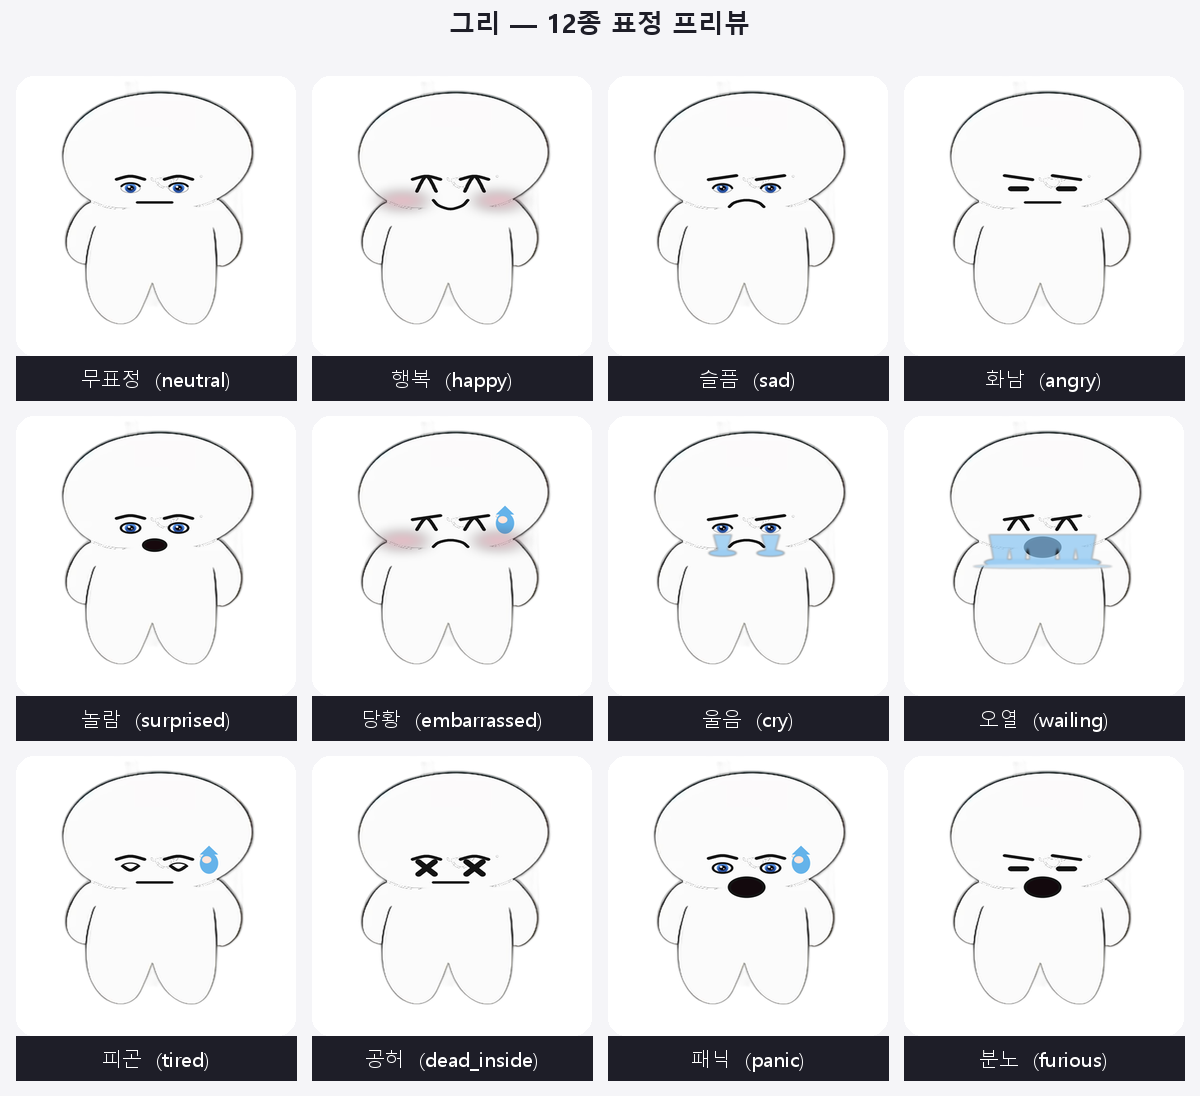
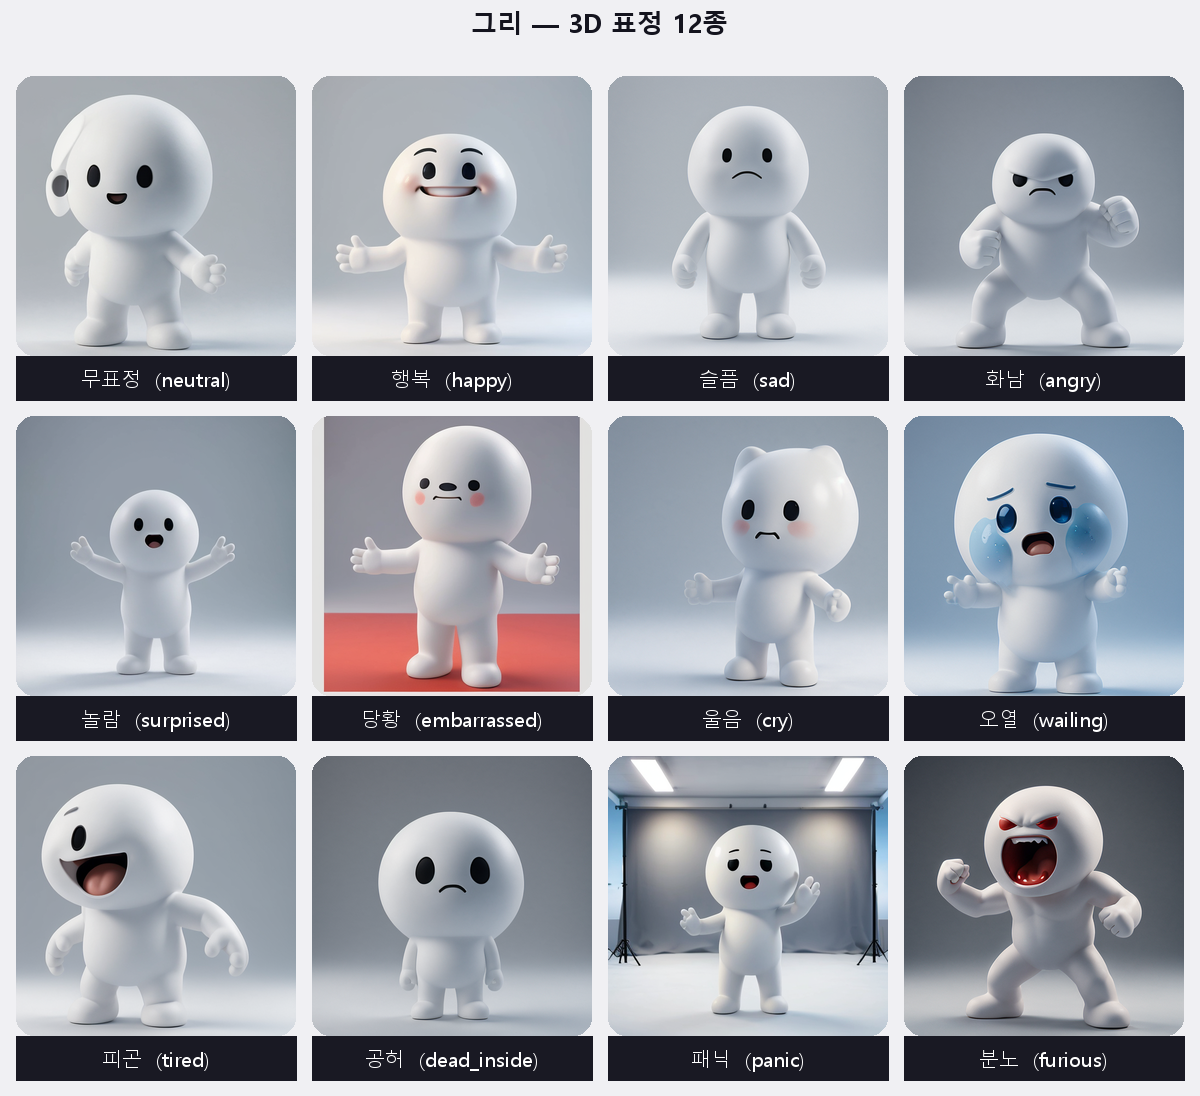
feat: 2D 표정 → 3D 그리 표정 12종으로 교체
- assets/emotions_preview.png: ComfyUI + jeonggwichan_v6 LoRA로 생성한 3D 표정 그리드
- dreamshaper_8 + LoRA strength 0.85, 512×512, dpmpp_2m karras 25step
- 무표정/행복/슬픔/화남/놀람/당황/울음/오열/피곤/공허/패닉/분노 12종

diff --git a/README.md b/README.md
@@ -7,11 +7,11 @@
 
 ---
 
-## 그리 — 12종 표정 프리뷰
+## 그리 — 3D 표정 12종
 
 <div align="center">
 
-![그리 12종 표정](assets/emotions_preview.png)
+![그리 3D 표정 12종](assets/emotions_preview.png)
 
 </div>
 
@@ -21,7 +21,7 @@
 | 2행 | 놀람 · 당황 · 울음 · 오열 |
 | 3행 | 피곤 · 공허 · 패닉 · 분노 |
 
-> 4× 슈퍼샘플링 AA · Catmull-Rom 스플라인 · Gaussian blur 볼터치 · 반투명 눈물 레이어
+> dreamshaper_8 + jeonggwichan_v6 LoRA · ComfyUI 생성 · 512×512
 
 ---
 